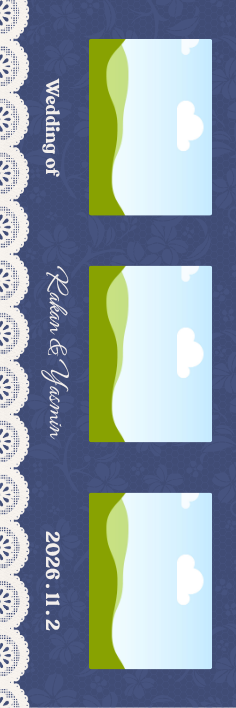
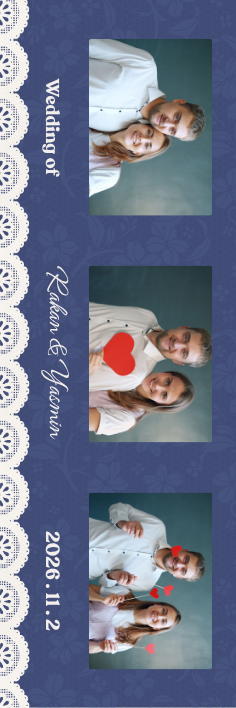
Replace wedding-1 template's placeholder photos with real client photos
Swapped the 3 generic green-mountain stock placeholders in the "Wedding -
Lace & navy" template (assets/templates/wedding-1.png) for real photos the
user supplied, replaced directly in the source Canva design's photo frames
(not hand-edited on the flat export, so the frame masking/border stayed
exact) and re-exported at the same size.

Also added ?v= cache-busting to the on-paper template image references in
index.html, for the same reason as the site.css/site.js version bump
earlier in this session: without it, a browser that already cached the old
wedding-1.png at this exact path would keep showing the green-mountain
placeholder for up to GitHub Pages' 10-minute max-age, even after this push.

Claude-Session: https://claude.ai/code/session_011y15o4KncqkJzbr6yPhEa1

diff --git a/index.html b/index.html
@@ -207,15 +207,15 @@
       <div class="op-scene reveal" data-r="scale">
         <div class="op-tilt" id="opTilt">
           <div class="op-card" id="opCard">
-            <img id="opImg" src="assets/templates/wedding-1.png" alt="Wedding — Lace &amp; navy">
+            <img id="opImg" src="assets/templates/wedding-1.png?v=2" alt="Wedding — Lace &amp; navy">
           </div>
         </div>
       </div>
       <div class="op-picker reveal">
-        <button type="button" class="op-btn on" data-src="assets/templates/wedding-1.png" aria-pressed="true"><b data-i18n="m_op_w1_b">Wedding</b><span data-i18n="m_op_w1_s">Lace &amp; navy</span></button>
-        <button type="button" class="op-btn" data-src="assets/templates/wedding-2.png" aria-pressed="false"><b data-i18n="m_op_w2_b">Wedding</b><span data-i18n="m_op_w2_s">Royal red frame</span></button>
-        <button type="button" class="op-btn" data-src="assets/templates/wedding-3.png" aria-pressed="false"><b data-i18n="m_op_w3_b">Wedding</b><span data-i18n="m_op_w3_s">Monogram</span></button>
-        <button type="button" class="op-btn" data-src="assets/templates/business-1.png" aria-pressed="false"><b data-i18n="m_op_b1_b">Corporate event</b><span data-i18n="m_op_b1_s">Brand colours</span></button>
+        <button type="button" class="op-btn on" data-src="assets/templates/wedding-1.png?v=2" aria-pressed="true"><b data-i18n="m_op_w1_b">Wedding</b><span data-i18n="m_op_w1_s">Lace &amp; navy</span></button>
+        <button type="button" class="op-btn" data-src="assets/templates/wedding-2.png?v=1" aria-pressed="false"><b data-i18n="m_op_w2_b">Wedding</b><span data-i18n="m_op_w2_s">Royal red frame</span></button>
+        <button type="button" class="op-btn" data-src="assets/templates/wedding-3.png?v=1" aria-pressed="false"><b data-i18n="m_op_w3_b">Wedding</b><span data-i18n="m_op_w3_s">Monogram</span></button>
+        <button type="button" class="op-btn" data-src="assets/templates/business-1.png?v=1" aria-pressed="false"><b data-i18n="m_op_b1_b">Corporate event</b><span data-i18n="m_op_b1_s">Brand colours</span></button>
       </div>
     </div>
   </div>
